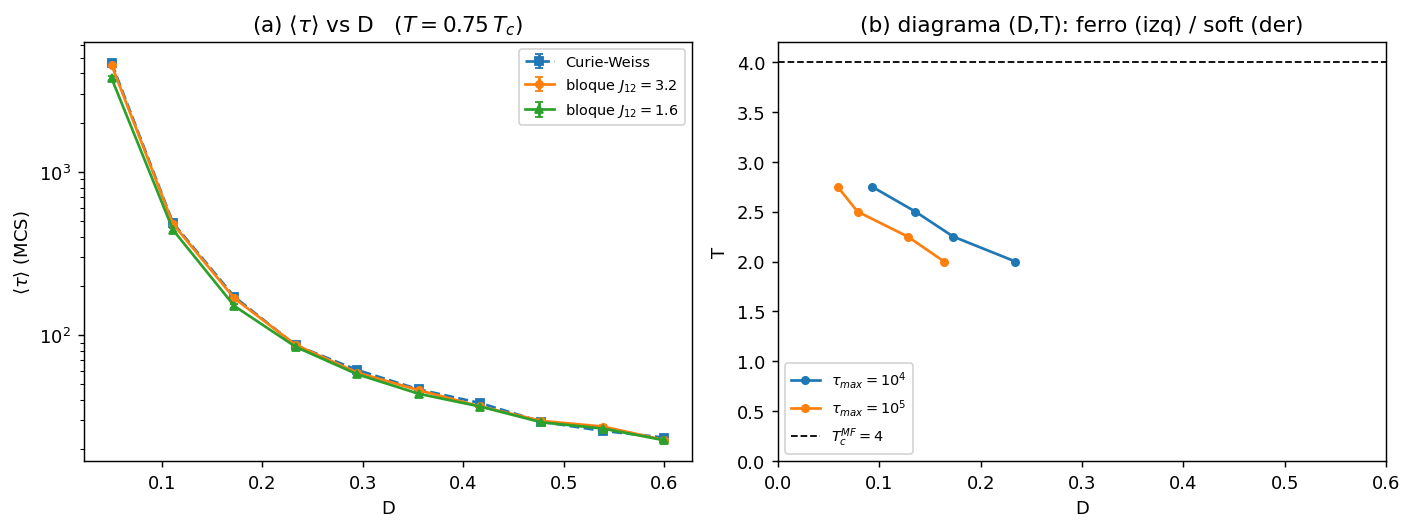
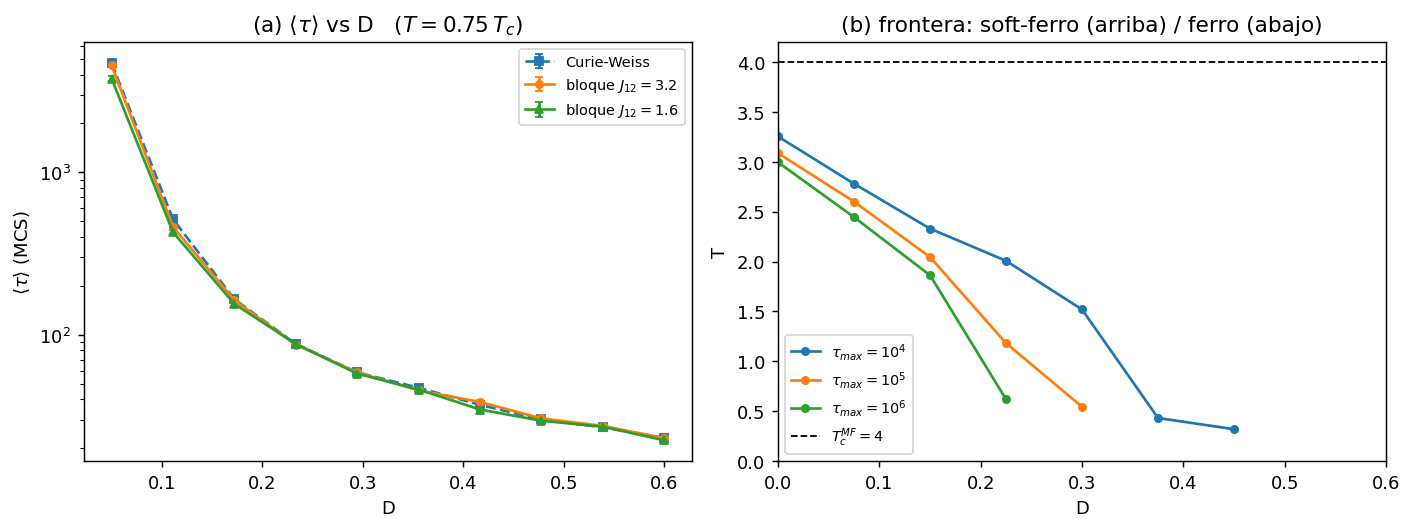
Eliminado gráfico d) en C1 y b) en C3

diff --git a/c3_stochastic.py b/c3_stochastic.py
@@ -8,9 +8,12 @@ Toral (numero de coordinacion 4, Tc^MF = 4; anexos SM3-SM5).
 
   (a) <tau> vs D a T fija (estilo Naskar: tau decrece con D), tres modelos de
       igual Tc = J_medio = 4: Curie-Weiss, bloque J12=3.2 (base), bloque J12=1.6.
-  (b) Diagrama (D,T): fronteras soft-ferro / ferro para una familia de tau_max,
-      extraidas de la malla <tau>(D,T) como el contorno <tau> = tau_max
-      (analogo a la Fig. SM5 de Toral).
+  (b) Diagrama (D,T): frontera soft-ferro / ferro para una familia de tau_max,
+      obtenida con el procedimiento de Toral (Fig. 4 / Fig. SM5): para cada D y
+      cada tau_max se busca la PRIMERA temperatura a la que el sistema logra
+      invertir (de m=-1 a m>=0) en menos de tau_max MCS. Esa temperatura es la
+      frontera; por debajo el sistema es ferromagnetico (no invierte en tau_max,
+      region ferro), por encima es soft-ferromagnetico (si invierte).
 
 Definicion de tau: primer paso, tau = inf{t : m(t) >= 0 | m(0) = -1}.
 """
@@ -53,7 +56,7 @@ def mean_tau(params, D, tau_max, n_sim, seed=1):
 
 
 # --------------------------------------------------------------------------
-#  (a) <tau> vs D
+#  (a) <tau> vs D                                          (sin cambios)
 # --------------------------------------------------------------------------
 
 def sweep_D_configs(D_values, N, T_frac, tau_max, n_sim):
@@ -67,61 +70,110 @@ def sweep_D_configs(D_values, N, T_frac, tau_max, n_sim):
 
 
 # --------------------------------------------------------------------------
-#  (b) malla <tau>(D,T) y extraccion de fronteras
+#  (b) frontera soft-ferro / ferro segun el procedimiento de Toral
 # --------------------------------------------------------------------------
+#
+#  Idea clave (eficiencia): una unica simulacion de longitud tau_big = max(
+#  tau_family) devuelve el tiempo de inversion tau de cada realizacion. Para
+#  CUALQUIER tau_max <= tau_big, "invierte en menos de tau_max" equivale a
+#  "(invirtio) y (tau <= tau_max)". Asi se resuelve toda la familia de tau_max
+#  con un solo barrido. Para cada (D, T) se estima la probabilidad de inversion
+#  en tau_max con R realizaciones; la frontera T*(D) es la temperatura a la que
+#  esa probabilidad cruza 1/2.
+#
+#  El barrido en T se hace DE ARRIBA (cerca de Tc) HACIA ABAJO y se detiene poco
+#  despues de que ni el mayor tau_max consiga invertir: esto acota el numero de
+#  simulaciones censuradas (las caras, de longitud completa) a unas pocas por D.
 
-def grid_tau(D_grid, T_grid, N, cap, n_sim):
-    """<tau> en cada (D,T); inf donde se censura (regimen ferromagnetico)."""
-    G = np.full((len(T_grid), len(D_grid)), np.inf)
-    for i, T in enumerate(T_grid):
-        for j, D in enumerate(D_grid):
-            m, _ = mean_tau(block_params(N, T), D, cap, n_sim)
-            if np.isfinite(m):
-                G[i, j] = m
-    return G
+def reversal_fracs(N, T, D, tau_big, R, tau_family, seed):
+    """Fraccion de R realizaciones que invierten en menos de cada tau_max."""
+    np.random.seed(seed)                       # reproducibilidad del campo
+    model = BlockIsingModel(block_params(N, T), seed=seed)
+    res = reversal_time_ensemble(model, gaussian_field(D), tau_big, R)
+    tau, rev = res['tau'], res['reversed']
+    return [float(np.mean(rev & (tau <= tm))) for tm in tau_family]
 
 
-def boundary(D_grid, tau_row, tau_max):
-    """D donde <tau>(D) cruza tau_max en una fila de T (<tau> decrece con D)."""
-    y = np.where(np.isfinite(tau_row), np.log(tau_row), np.inf)
-    t = np.log(tau_max)
-    for j in range(len(D_grid) - 1):
-        if y[j] >= t >= y[j + 1] and np.isfinite(y[j + 1]):
-            if np.isinf(y[j]):
-                return D_grid[j + 1]               # cruce contra zona censurada
-            f = (y[j] - t) / (y[j] - y[j + 1])
-            return D_grid[j] + f * (D_grid[j + 1] - D_grid[j])
+def scan_T_down(D, N, T_top, T_bot, dT, tau_family, R, seed0,
+                stop_eps=1e-9, stop_after=2):
+    """Barre T de T_top a T_bot midiendo p(invierte en tau_max) en cada T.
+    Se detiene stop_after pasos despues de que el mayor tau_max deje de
+    invertir (ya por debajo de todas las fronteras)."""
+    tau_family = sorted(tau_family)
+    tau_big = max(tau_family)
+    Ts, P = [], []
+    n_zero, T, seed = 0, T_top, seed0
+    while T >= T_bot - 1e-9:
+        fr = reversal_fracs(N, T, D, tau_big, R, tau_family, seed)
+        Ts.append(T); P.append(fr); seed += 1
+        if fr[-1] <= stop_eps:                 # mayor tau_max ya no invierte
+            n_zero += 1
+            if n_zero >= stop_after:
+                break
+        else:
+            n_zero = 0
+        T -= dT
+    return np.array(Ts), np.array(P)
+
+
+def crossing(Ts_asc, p_asc, level=0.5):
+    """T donde p(T) (creciente con T) cruza 'level'; None si no cruza."""
+    for i in range(len(Ts_asc) - 1):
+        a, b = p_asc[i], p_asc[i + 1]
+        if a < level <= b:
+            f = (level - a) / (b - a) if b != a else 0.0
+            return Ts_asc[i] + f * (Ts_asc[i + 1] - Ts_asc[i])
     return None
+
+
+def extract_boundaries(Ts, P, tau_family, level=0.5):
+    order = np.argsort(Ts)                      # ascendente en T
+    Ts, P = Ts[order], P[order]
+    return {tm: crossing(Ts, P[:, k], level)
+            for k, tm in enumerate(sorted(tau_family))}
+
+
+def compute_boundaries(D_grid, N, T_top, T_bot, dT, tau_family, R, seed0=1000):
+    """Para cada D y cada tau_max, T* de la frontera soft-ferro / ferro."""
+    tau_family = sorted(tau_family)
+    acc = {tm: ([], []) for tm in tau_family}
+    seed = seed0
+    for D in D_grid:
+        Ts, P = scan_T_down(D, N, T_top, T_bot, dT, tau_family, R, seed)
+        seed += 1000
+        bnd = extract_boundaries(Ts, P, tau_family)
+        for tm in tau_family:
+            if bnd[tm] is not None:
+                acc[tm][0].append(D); acc[tm][1].append(bnd[tm])
+    return {tm: (np.array(a), np.array(b)) for tm, (a, b) in acc.items()}
 
 
 # --------------------------------------------------------------------------
 #  Figura
 # --------------------------------------------------------------------------
 
-def make_figure(Dv, dC, T_a, D_grid, T_grid, G, tau_family, path):
-    fig, ax = plt.subplots(1, 2, figsize=(11, 4.2))
+def make_figure(Dv, dC, T_a, boundaries, path):
+    fig, ax = plt.subplots(1, 1, figsize=(6, 4.2))
 
-    a = ax[0]
+    a = ax
     for lab, (fac, sty) in CONFIGS.items():
         y, e = dC[lab]
         a.errorbar(Dv, y, yerr=e, fmt=sty, ms=4, capsize=2, label=lab)
     a.set_yscale('log'); a.set_xlabel('D'); a.set_ylabel(r'$\langle\tau\rangle$ (MCS)')
     a.set_title(f'(a) $\\langle\\tau\\rangle$ vs D   ($T={T_a:.2f}\\,T_c$)'); a.legend(fontsize=8)
 
-    b = ax[1]
-    for k, tm in enumerate(tau_family):
-        Ds, Ts = [], []
-        for i, T in enumerate(T_grid):
-            Db = boundary(D_grid, G[i], tm)
-            if Db is not None:
-                Ds.append(Db); Ts.append(T)
-        if Ds:
-            b.plot(Ds, Ts, 'o-', ms=4, color=f'C{k}',
-                   label=r'$\tau_{max}=10^{%d}$' % int(round(np.log10(tm))))
-    b.axhline(TC, color='k', ls='--', lw=1, label=r'$T_c^{MF}=4$')
-    b.set_xlim(0, 0.6); b.set_ylim(0, 4.2)
-    b.set_xlabel('D'); b.set_ylabel('T')
-    b.set_title('(b) diagrama (D,T): ferro (izq) / soft (der)'); b.legend(fontsize=8)
+    # Panel (b) comentado: frontera soft-ferro / ferro
+    # b = ax[1]
+    # for k, tm in enumerate(sorted(boundaries)):
+    #     Ds, Ts = boundaries[tm]
+    #     if len(Ds):
+    #         b.plot(Ds, Ts, 'o-', ms=4, color=f'C{k}',
+    #                label=r'$\tau_{max}=10^{%d}$' % int(round(np.log10(tm))))
+    # b.axhline(TC, color='k', ls='--', lw=1, label=r'$T_c^{MF}=4$')
+    # b.set_xlim(0, 0.6); b.set_ylim(0, 4.2)
+    # b.set_xlabel('D'); b.set_ylabel('T')
+    # b.set_title('(b) frontera: soft-ferro (arriba) / ferro (abajo)')
+    # b.legend(fontsize=8)
 
     fig.tight_layout()
     fig.savefig(path, dpi=130, bbox_inches='tight')
@@ -129,7 +181,7 @@ def make_figure(Dv, dC, T_a, D_grid, T_grid, G, tau_family, path):
 
 
 def main():
-    N = 200
+    N = 1000
     N_SIM = 1000           # subir en produccion (>= 1000 para ~3% de error)
 
     # --- (a) <tau> vs D ---
@@ -138,14 +190,14 @@ def main():
     Dv, dC = sweep_D_configs(linrange(*DA_RANGE), N=N, T_frac=T_A,
                              tau_max=20000, n_sim=N_SIM)
 
-    # --- (b) malla y fronteras ---
-    D_grid = linrange(0.05, 0.60, 9)
-    T_grid = linrange(2.0, 4.0, 9)
-    G = grid_tau(D_grid, T_grid, N=N, cap=1000000, n_sim=10)
-    TAU_FAMILY = [10000, 100000, 1000000]
+    # --- (b) frontera soft-ferro / ferro (procedimiento de Toral) 
+    #TAU_FAMILY = [10, 100, 1000, 10000, 100000]
+    #D_GRID = np.linspace(0.0, 0.6, 13)
+    # boundaries = compute_boundaries(
+    #     D_GRID, N=N, T_top=0.98 * TC, T_bot=0.1, dT=0.15,
+    #     tau_family=TAU_FAMILY, R=10)
 
-    make_figure(Dv, dC, T_A, D_grid, T_grid, G, TAU_FAMILY,
-                'outputs/c3_stochastic.png')
+    make_figure(Dv, dC, T_A, {}, 'outputs/c3_stochastic.png')
     print('Figura: c3_stochastic.png')
 
 

diff --git a/c1_reversal.py b/c1_reversal.py
@@ -109,32 +109,33 @@ def sweep_p(p_values, N, T_frac, tau_max, n_sim):
 # --------------------------------------------------------------------------
 
 def make_figure(Tf, dT, Nv, dN, dJ, dp, path):
-    fig, ax = plt.subplots(2, 2, figsize=(11, 8))
+    fig, ax = plt.subplots(1, 3, figsize=(14, 4))
 
-    a = ax[0, 0]
+    a = ax[0]
     for lab, (fac, sty) in CONFIGS.items():
         a.errorbar(1 / Tf, dT[lab][0], yerr=dT[lab][1], fmt=sty, ms=4, capsize=2, label=lab)
     a.set_yscale('log'); a.set_xlabel(r'$T_c/T$'); a.set_ylabel(r'$\langle\tau\rangle$ (MCS)')
     a.set_title('(a) $\\langle\\tau\\rangle$ vs T '); a.legend(fontsize=8)
 
-    b = ax[0, 1]
+    b = ax[1]
     for lab, (fac, sty) in CONFIGS.items():
         b.errorbar(Nv, dN[lab][0], yerr=dN[lab][1], fmt=sty, ms=4, capsize=2, label=lab)
     b.set_yscale('log'); b.set_xlabel('N'); b.set_ylabel(r'$\langle\tau\rangle$ (MCS)')
     b.set_title('(b) $\\langle\\tau\\rangle$ vs N   [barrera $\\sim e^{cN}$]'); b.legend(fontsize=8)
 
-    c = ax[1, 0]
+    c = ax[2]
     for i, (Tf_c, (J12, tau, se)) in enumerate(sorted(dJ.items())):
         c.errorbar(J12, tau, yerr=se, fmt='o-', ms=4, capsize=2, color=f'C{i}',
                    label=f'$T={Tf_c:.2f}\\,T_c$')
     c.set_yscale('log'); c.set_xlabel(r'$J_{12}$'); c.set_ylabel(r'$\langle\tau\rangle$ (MCS)')
     c.set_title('(c) $\\langle\\tau\\rangle$ vs $J_{12}$  ($T_c,\\bar J$ fijos)'); c.legend(fontsize=8)
 
-    d = ax[1, 1]
-    for i, (lab, (pv, tau, se)) in enumerate(dp.items()):
-        d.errorbar(pv, tau, yerr=se, fmt='o-', ms=4, capsize=2, color=f'C{i+2}', label=lab)
-    d.set_yscale('log'); d.set_xlabel(r'$p$ (bloque 1)'); d.set_ylabel(r'$\langle\tau\rangle$ (MCS)')
-    d.set_title('(d) $\\langle\\tau\\rangle$ vs $p$'); d.legend(fontsize=8)
+    # # Panel (d) comentado: <tau> vs p
+    # d = ax[1, 1]
+    # for i, (lab, (pv, tau, se)) in enumerate(dp.items()):
+    #     d.errorbar(pv, tau, yerr=se, fmt='o-', ms=4, capsize=2, color=f'C{i+2}', label=lab)
+    # d.set_yscale('log'); d.set_xlabel(r'$p$ (bloque 1)'); d.set_ylabel(r'$\langle\tau\rangle$ (MCS)')
+    # d.set_title('(d) $\\langle\\tau\\rangle$ vs $p$'); d.legend(fontsize=8)
 
     fig.tight_layout()
     fig.savefig(path, dpi=130, bbox_inches='tight')
@@ -157,10 +158,12 @@ def main():
     Nv, dN = sweep_N(linrange(*N_RANGE), T_frac=0.88, tau_max=TAU_MAX, n_sim=N_SIM)
     dJ = sweep_J12(linrange(*J12_RANGE), N=200, T_fracs=T_J12,
                    tau_max=TAU_MAX, n_sim=N_SIM)
-    dp = sweep_p(linrange(*P_RANGE), N=200, T_frac=T_P,
-                 tau_max=TAU_MAX, n_sim=N_SIM)
+    
+    # Panel (d) comentado: barrido de p
+    # dp = sweep_p(linrange(*P_RANGE), N=200, T_frac=T_P,
+    #              tau_max=TAU_MAX, n_sim=N_SIM)
 
-    make_figure(Tf, dT, Nv, dN, dJ, dp, 'outputs/c1_reversal.png')
+    make_figure(Tf, dT, Nv, dN, dJ, {}, 'outputs/c1_reversal.png')
     print('Figura: c1_reversal.png')
 
 

diff --git a/c0_histograms.py b/c0_histograms.py
@@ -35,7 +35,6 @@ def pm_total(N, T, D, n_therm, n_steps, bins, seed=1):
     )
     res = magnetization_samples(model, field, n_therm, n_steps,
                                 record_every=1, m_init=0.0)
-    # m = np.concatenate([res['m_total'], -res['m_total']])
     m = np.concatenate([res['m_total']])
     dens, edges = np.histogram(m, bins=bins, range=(-1, 1), density=True)
     return 0.5 * (edges[:-1] + edges[1:]), dens